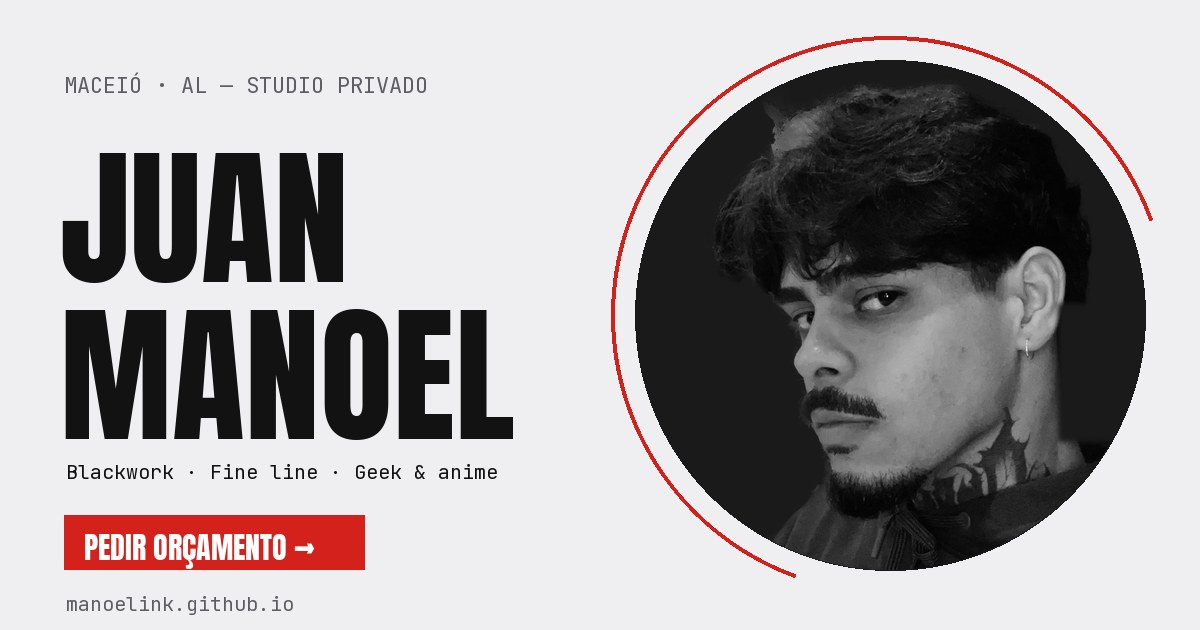
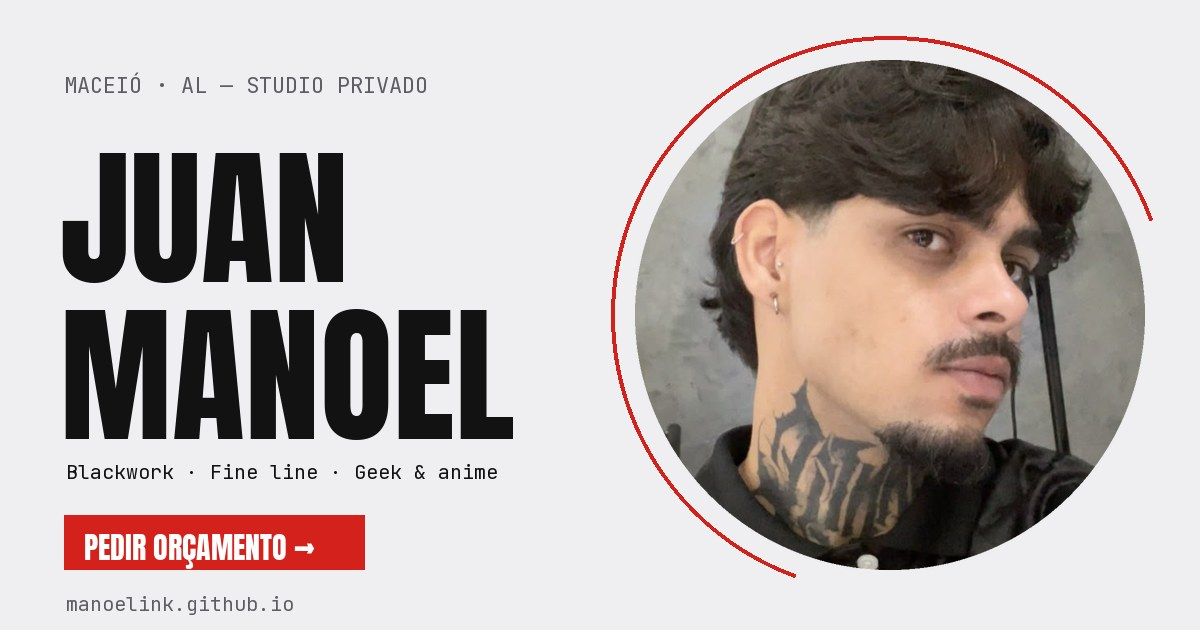
Hero: foto colorida de frente com o fundo original, encaixada na bola
A pedido do Manoel (áudio): manter o fundo, sem recorte.

Changed region(s): [[0.5242, 0.0905, 0.9558, 0.9048]]

diff --git a/manoel-ink/index.html b/manoel-ink/index.html
@@ -76,8 +76,8 @@
     <div class="hero-visual" aria-hidden="true" id="heroVisual">
       <div class="orb" data-depth="0.02"></div>
       <svg class="arc" viewBox="0 0 600 600"><circle cx="300" cy="300" r="296" fill="none" stroke="currentColor" stroke-width="2" stroke-dasharray="1100 760"/></svg>
-      <!-- Troque por img/manoel.png (PNG sem fundo) -->
-      <img class="hero-photo" src="img/manoel.png" alt="" onerror="this.replaceWith(document.getElementById('silhouette').content.cloneNode(true))">
+      <!-- Foto de perfil do Manoel (com o fundo original), recortada em círculo pelo CSS -->
+      <img class="hero-photo" src="img/manoel.jpg" alt="" onerror="this.replaceWith(document.getElementById('silhouette').content.cloneNode(true))">
       <div class="orb-tag" data-depth="0.06">@manoel.ink</div>
       <svg class="badge-spin" viewBox="0 0 200 200" data-depth="0.08"><defs><path id="circ" d="M100,100 m-78,0 a78,78 0 1,1 156,0 a78,78 0 1,1 -156,0"/></defs><text><textPath href="#circ">BLACKWORK · FINE LINE · GEEK · AGENDA ABERTA · </textPath></text><circle cx="100" cy="100" r="10"/></svg>
     </div>
